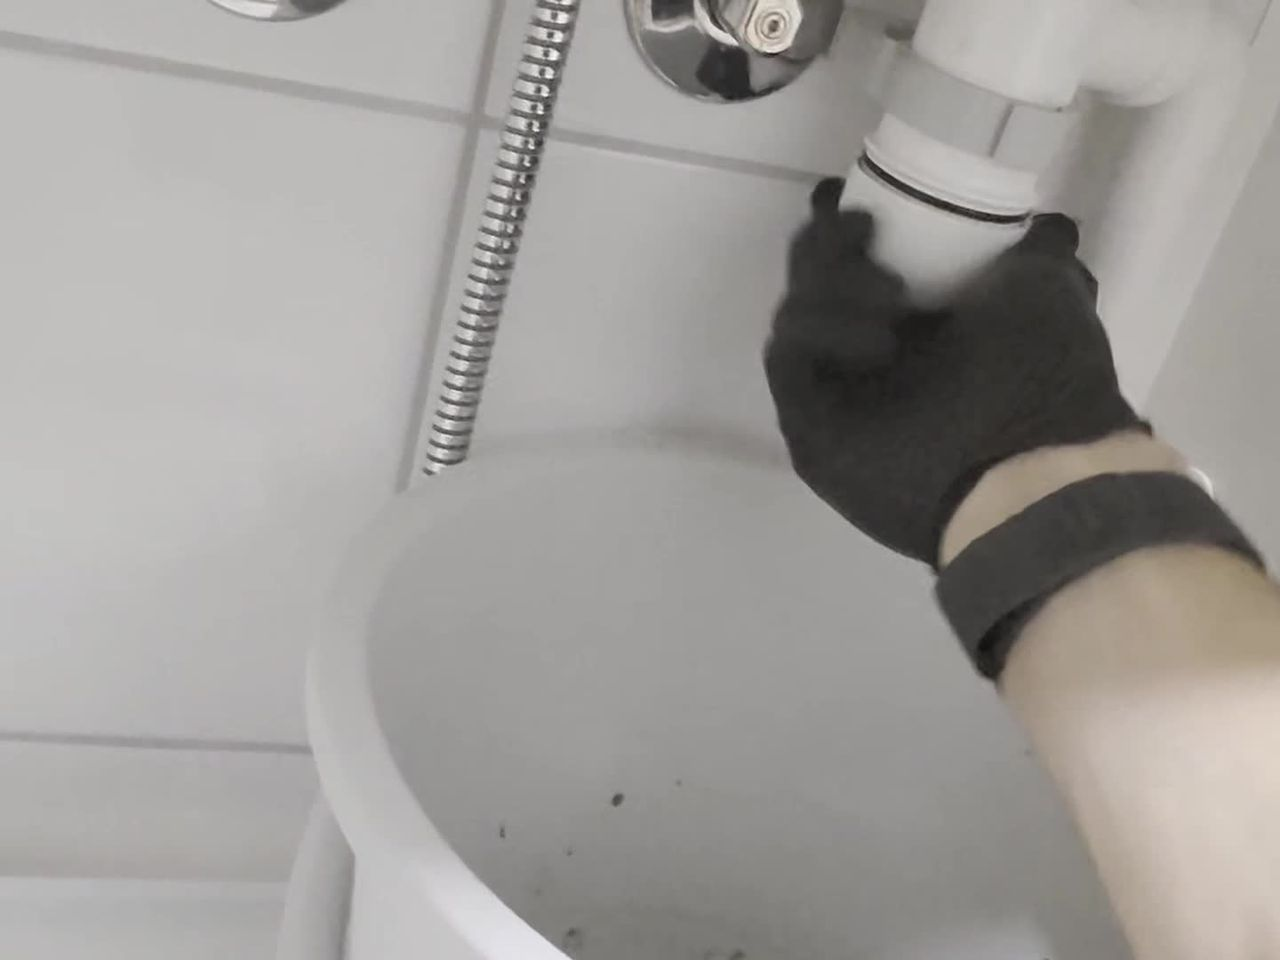
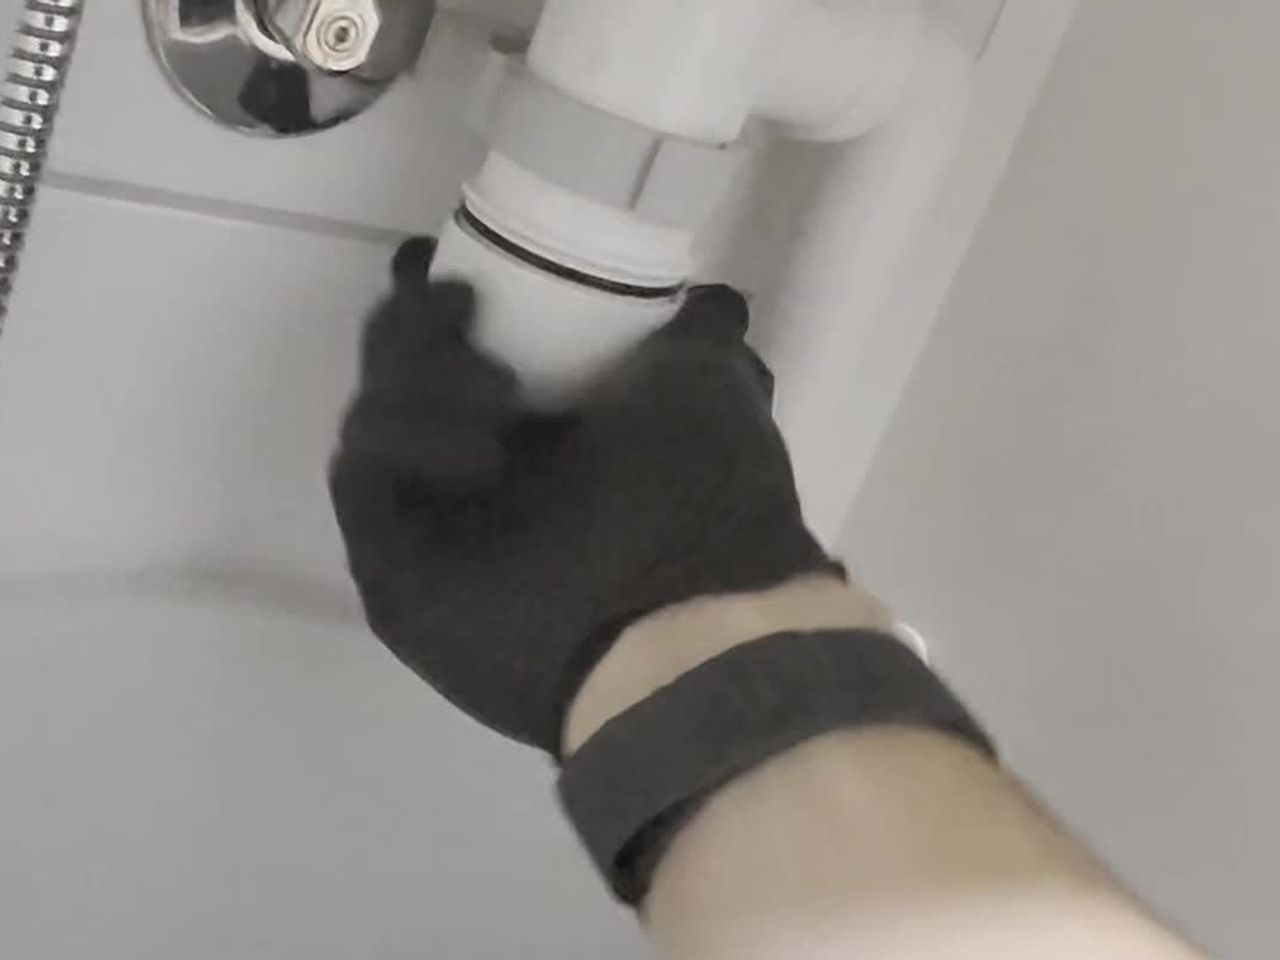
Walkthrough: re-crop stills so the action sits left of the display card, add Step 1 stopper still, caption below the photo

diff --git a/demo/index.html b/demo/index.html
@@ -89,9 +89,7 @@ h1, h2 { text-wrap: balance; }
   background: radial-gradient(120% 90% at 0% 100%, #dfe3ea 0%, #eceef2 55%, #f4f5f7 100%); }
 .scenecard p { font: 600 clamp(17px, 1.7vw, 22px)/1.3 var(--display); letter-spacing: -0.015em; color: var(--ink); }
 .view.has-frame .scenecard { display: none; }
-.view .caption { position: absolute; left: 12px; bottom: 12px; right: 46%; padding: 10px 12px; border-radius: 12px; font-size: 13.5px; line-height: 1.4; color: #fff;
-  background: rgba(0,0,0,0.55); backdrop-filter: blur(10px); -webkit-backdrop-filter: blur(10px); }
-.view:not(.has-frame) .caption { display: none; }
+.caption { margin-top: -8px; font-size: 14px; line-height: 1.45; color: var(--muted); max-width: 70ch; }
 .rec { position: absolute; top: 14px; left: 14px; display: inline-flex; align-items: center; gap: 7px; font-size: 12.5px; font-weight: 600; color: var(--ink-2);
   background: rgba(255,255,255,0.82); padding: 5px 10px 5px 8px; border-radius: 999px; backdrop-filter: blur(8px); -webkit-backdrop-filter: blur(8px); }
 .rec i { width: 7px; height: 7px; border-radius: 50%; background: #ff3b30; animation: blink 1.6s steps(1) infinite; }
@@ -120,7 +118,6 @@ h1, h2 { text-wrap: balance; }
   .view img.frame, .scenecard { position: relative; inset: auto; }
   .view img.frame { aspect-ratio: 4 / 3; height: auto; }
   .scenecard { padding: 54px 18px 18px; }
-  .view .caption { position: relative; left: auto; right: auto; bottom: auto; margin: 0; border-radius: 0; background: #3a3a3c; }
   .hud { position: relative; top: auto; right: auto; width: auto; margin: 12px; }
   .toast { font-size: 17px; }
 }
@@ -303,7 +300,7 @@ const S = [
     why: "Advice from the Google DeepMind team: one problem at a time, as a decision tree. The problem, the trap type, a confirming check and the hazards all go in one Decisions API call, which costs about the same as one question. The trap type picks the procedure; Finnish bathroom basins usually have bottle traps.",
     facts: [["Questions per call", "up to 17"], ["Per check", "about 0.3 s"]] },
 
-  { tab: "Step 1", where: "Step 1 of 7", frame: "stopper", scene: "The wearer lifts the pop-up stopper out of the drain. Hair is wrapped around it.",
+  { tab: "Step 1", where: "Step 1 of 7", frame: "stopper", scene: "Water pools around the pop-up stopper. It comes out first, along with the hair caught under it.",
     card: "11-step-1-stopper", step: "1/7", short: "Pull the stopper out", tip: "Used drain cleaner today? Stop.", status: ["insp", "check", "Done"],
     talk: [["coach", "First: have you poured any drain cleaner in today? If not, lift the stopper out and pull off any hair."], ["you", "No drain cleaner."]],
     live: ["c-live", "speaking", "Asks the safety question a camera can't answer, about chemicals, then gives the step in its own words."],
@@ -323,7 +320,7 @@ const S = [
     why: "Each step carries the mistakes beginners actually make, from manufacturer instructions. Reaching for the trap before the bucket is there is caught on camera, and the coach stops you before any water spills. This is the Decisions API working in real time.",
     facts: [["Source", "Hansgrohe trap instructions"], ["Safety step", "can't be skipped"]] },
 
-  { tab: "Step 2", where: "Step 2 of 7, a safety step", frame: "bucket", scene: "Gloves on. A bucket now stands directly under the trap.",
+  { tab: "Step 2", where: "Step 2 of 7, a safety step", frame: "bucket", scene: "A bucket now stands directly under the trap.",
     card: "17-correct", step: "2/7", short: "Bucket under the trap", tip: "Gloves on", status: ["insp", "check", "Done"],
     talk: [["coach", "Good, the bucket's in place. Now hold the trap body still and turn the bottom cup to the left, by hand."]],
     live: ["c-live", "speaking", "Confirms in one sentence, then gives the next step. Non-urgent notes wait until it finishes speaking, so it never talks over itself."],
@@ -456,7 +453,6 @@ function stageHTML(s) {
       <div class="view${s.alarm ? " alarm" : ""}" id="view">
         <img class="frame" id="frame" alt="${esc(s.scene)}" src="frames/${s.frame}.jpg" hidden>
         <div class="scenecard"><p>${esc(s.scene)}</p></div>
-        <p class="caption">${esc(s.scene)}</p>
         <span class="rec"><i></i>Glasses camera</span>
         <div class="hud" aria-label="The glasses display">
           <div class="top"><span>Display</span><b>${s.step ? "Step " + esc(s.step) : ""}</b></div>
@@ -467,6 +463,7 @@ function stageHTML(s) {
         </div>
         ${s.alarm ? `<div class="toast" role="alert">${icon("alert")}${esc(s.alarm)}</div>` : ""}
       </div>
+      <p class="caption" id="caption" hidden>${esc(s.scene)}</p>
       <div class="talk">${talk}</div>
     </div>
     <div class="side fade" style="animation-delay:90ms">
@@ -537,7 +534,7 @@ function render() {
   if (s.summary) $("restart").onclick = () => go(0);
   else {
     const img = $("frame"), view = $("view");
-    img.onload = () => { img.hidden = false; view.classList.add("has-frame"); };
+    img.onload = () => { img.hidden = false; view.classList.add("has-frame"); $("caption").hidden = false; };
     img.onerror = () => img.remove();
     requestAnimationFrame(() => requestAnimationFrame(() => stage.querySelectorAll(".track i").forEach((b) => (b.style.width = b.dataset.w + "%"))));
   }
